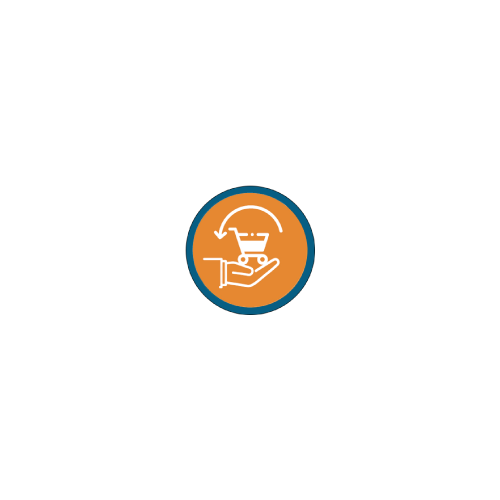
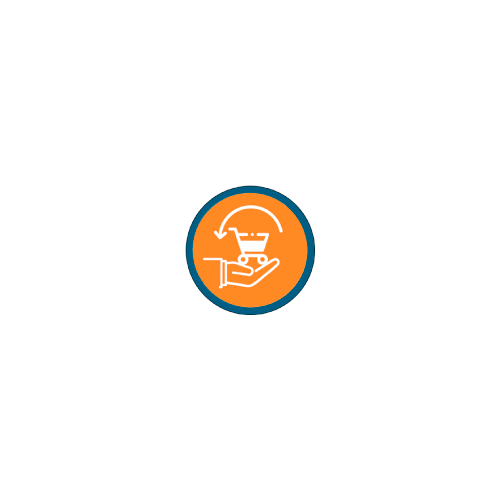
Add social media links, fix lang selector style, fix studie cases links and edit shopper trolley image bg color

Changed region(s): [[0.36, 0.36, 0.63, 0.63]]

diff --git a/assets/scss/main.scss b/assets/scss/main.scss
@@ -72,6 +72,9 @@ h3 {
 
         a {
             color: #000;
+            &:hover {
+                color: $color-indigo;
+            }
         }
     }
 }
@@ -88,6 +91,9 @@ h3 {
         margin-bottom: 0;
         li {
             font-size: 1.25em;
+            a:hover {
+                color: $color-indigo;
+            }
         }
     }
 }
@@ -99,7 +105,7 @@ h3 {
 }
 
 .fit-logo {
-    height: 68px;
+    height: 65px;
 }
 
 header {
@@ -173,6 +179,7 @@ header {
                     border: 1px solid white;
                     background: transparent;
                     padding: .5rem 1rem;
+                    transition: all .15s ease-in-out;
                     &:hover {
                         background: white;
                         color: #000;
@@ -194,15 +201,43 @@ header {
                     border-bottom: 1px solid #000;   
                 }
             }
-            &:last-of-type {
-                margin-bottom: 25px!important;
-            }
         }
         li.lang-selector {
             text-transform: uppercase;
-
+            a {
+                border-color: #FFF!important;
+                @media all and (max-width: 991px) {
+                    border: 0!important;
+                    a:hover {
+                        border: 0!important;
+                    }
+                }
+            }
             ul.dropdown-menu {
                 min-width: unset;
+                max-width: 60px;
+
+                li {
+                    text-align: center;
+                    a {
+                        padding: 3px 15px;
+                        &:active {
+                            background: unset;
+                            color: unset;
+                        }
+                    }
+                }
+            }
+            @media all and (max-width: 991px) {
+                a {
+                    padding: 0 12px 0 0;
+                    font-size: 1.25rem;
+                }
+                min-height: 105px;
+                border: 0!important;
+                a:hover {
+                    border: 0!important;
+                }
             }
         }
     }
@@ -426,6 +461,12 @@ header {
                                 //border-bottom: 1px solid #d5a239;
                                 font-weight: 600;
                             }
+                            a {
+                                text-decoration: underline;
+                                &:hover {
+                                    color: $color-indigo;
+                                }
+                            }
                         }
                     }
                 }
@@ -568,6 +609,9 @@ footer {
     }
 }
 @media all and (max-width: 450px) {
+    .nav-item {
+        margin-bottom: 10px!important;
+    }
     h2 {
         font-size: 2rem;
     }
@@ -696,6 +740,10 @@ footer {
                             color: #000;
                             border-bottom: 1px solid #000;
                         }
+                    }
+
+                    &:last-of-type {
+                        margin-bottom: 25px!important;
                     }
 
                     &.cta-item {

diff --git a/src/components/Footer.vue b/src/components/Footer.vue
@@ -31,25 +31,24 @@
             <li>
               <a
                 target="_blank"
-                href="#"
+                href="https://www.facebook.com/facttic/"
                 title="Facebook"
               ><font-awesome-icon :icon="['fab', 'facebook-square']" /><span class="sr-only">Facebook</span></a>
             </li>
             <li>
               <a
                 target="_blank"
-                href="#"
+                href="https://www.instagram.com/facttic.ar/"
                 title="Instagram"
               ><font-awesome-icon :icon="['fab', 'instagram']" /><span class="sr-only">Instagram</span></a>
             </li>
             <li>
               <a
                 target="_blank"
-                href="#"
+                href="https://twitter.com/facttic"
                 title="Twitter"
               ><font-awesome-icon :icon="['fab', 'twitter']" /><span class="sr-only">Twitter</span></a>
             </li>
-            <!--li><a target="_blank" href="#" title="Github"><font-awesome-icon :icon="['fab', 'github']" /><span class="sr-only">Github</span></a></li-->
           </ul>
           <small class="mb-5 made-with" v-html="$t('footer.signature')"></small>
 

diff --git a/src/components/snippets/SocialMedia.vue b/src/components/snippets/SocialMedia.vue
@@ -4,21 +4,21 @@
             <li class="mt-1 mb-1">
               <a
                 target="_blank"
-                href="#"
+                href="https://www.facebook.com/facttic/"
                 title="Facebook"
               ><font-awesome-icon :icon="['fab', 'facebook-square']" /><span class="sr-only">Facebook</span></a>
             </li>
             <li class="mt-1 mb-1">
               <a
                 target="_blank"
-                href="#"
+                href="https://www.instagram.com/facttic.ar/"
                 title="Instagram"
               ><font-awesome-icon :icon="['fab', 'instagram']" /><span class="sr-only">Instagram</span></a>
             </li>
             <li class="mt-1 mb-1">
               <a
                 target="_blank"
-                href="#"
+                href="https://twitter.com/facttic"
                 title="Twitter"
               ><font-awesome-icon :icon="['fab', 'twitter']" /><span class="sr-only">Twitter</span></a>
             </li>

diff --git a/src/components/Cover.vue b/src/components/Cover.vue
@@ -21,21 +21,21 @@
             <li>
               <a
                 target="_blank"
-                href="#"
+                href="https://www.facebook.com/facttic/"
                 title="Facebook"
               ><font-awesome-icon :icon="['fab', 'facebook-square']" /><span class="sr-only">Facebook</span></a>
             </li>
             <li>
               <a
                 target="_blank"
-                href="#"
+                href="https://www.instagram.com/facttic.ar/"
                 title="Instagram"
               ><font-awesome-icon :icon="['fab', 'instagram']" /><span class="sr-only">Instagram</span></a>
             </li>
             <li>
               <a
                 target="_blank"
-                href="#"
+                href="https://twitter.com/facttic"
                 title="Twitter"
               ><font-awesome-icon :icon="['fab', 'twitter']" /><span class="sr-only">Twitter</span></a>
             </li>
